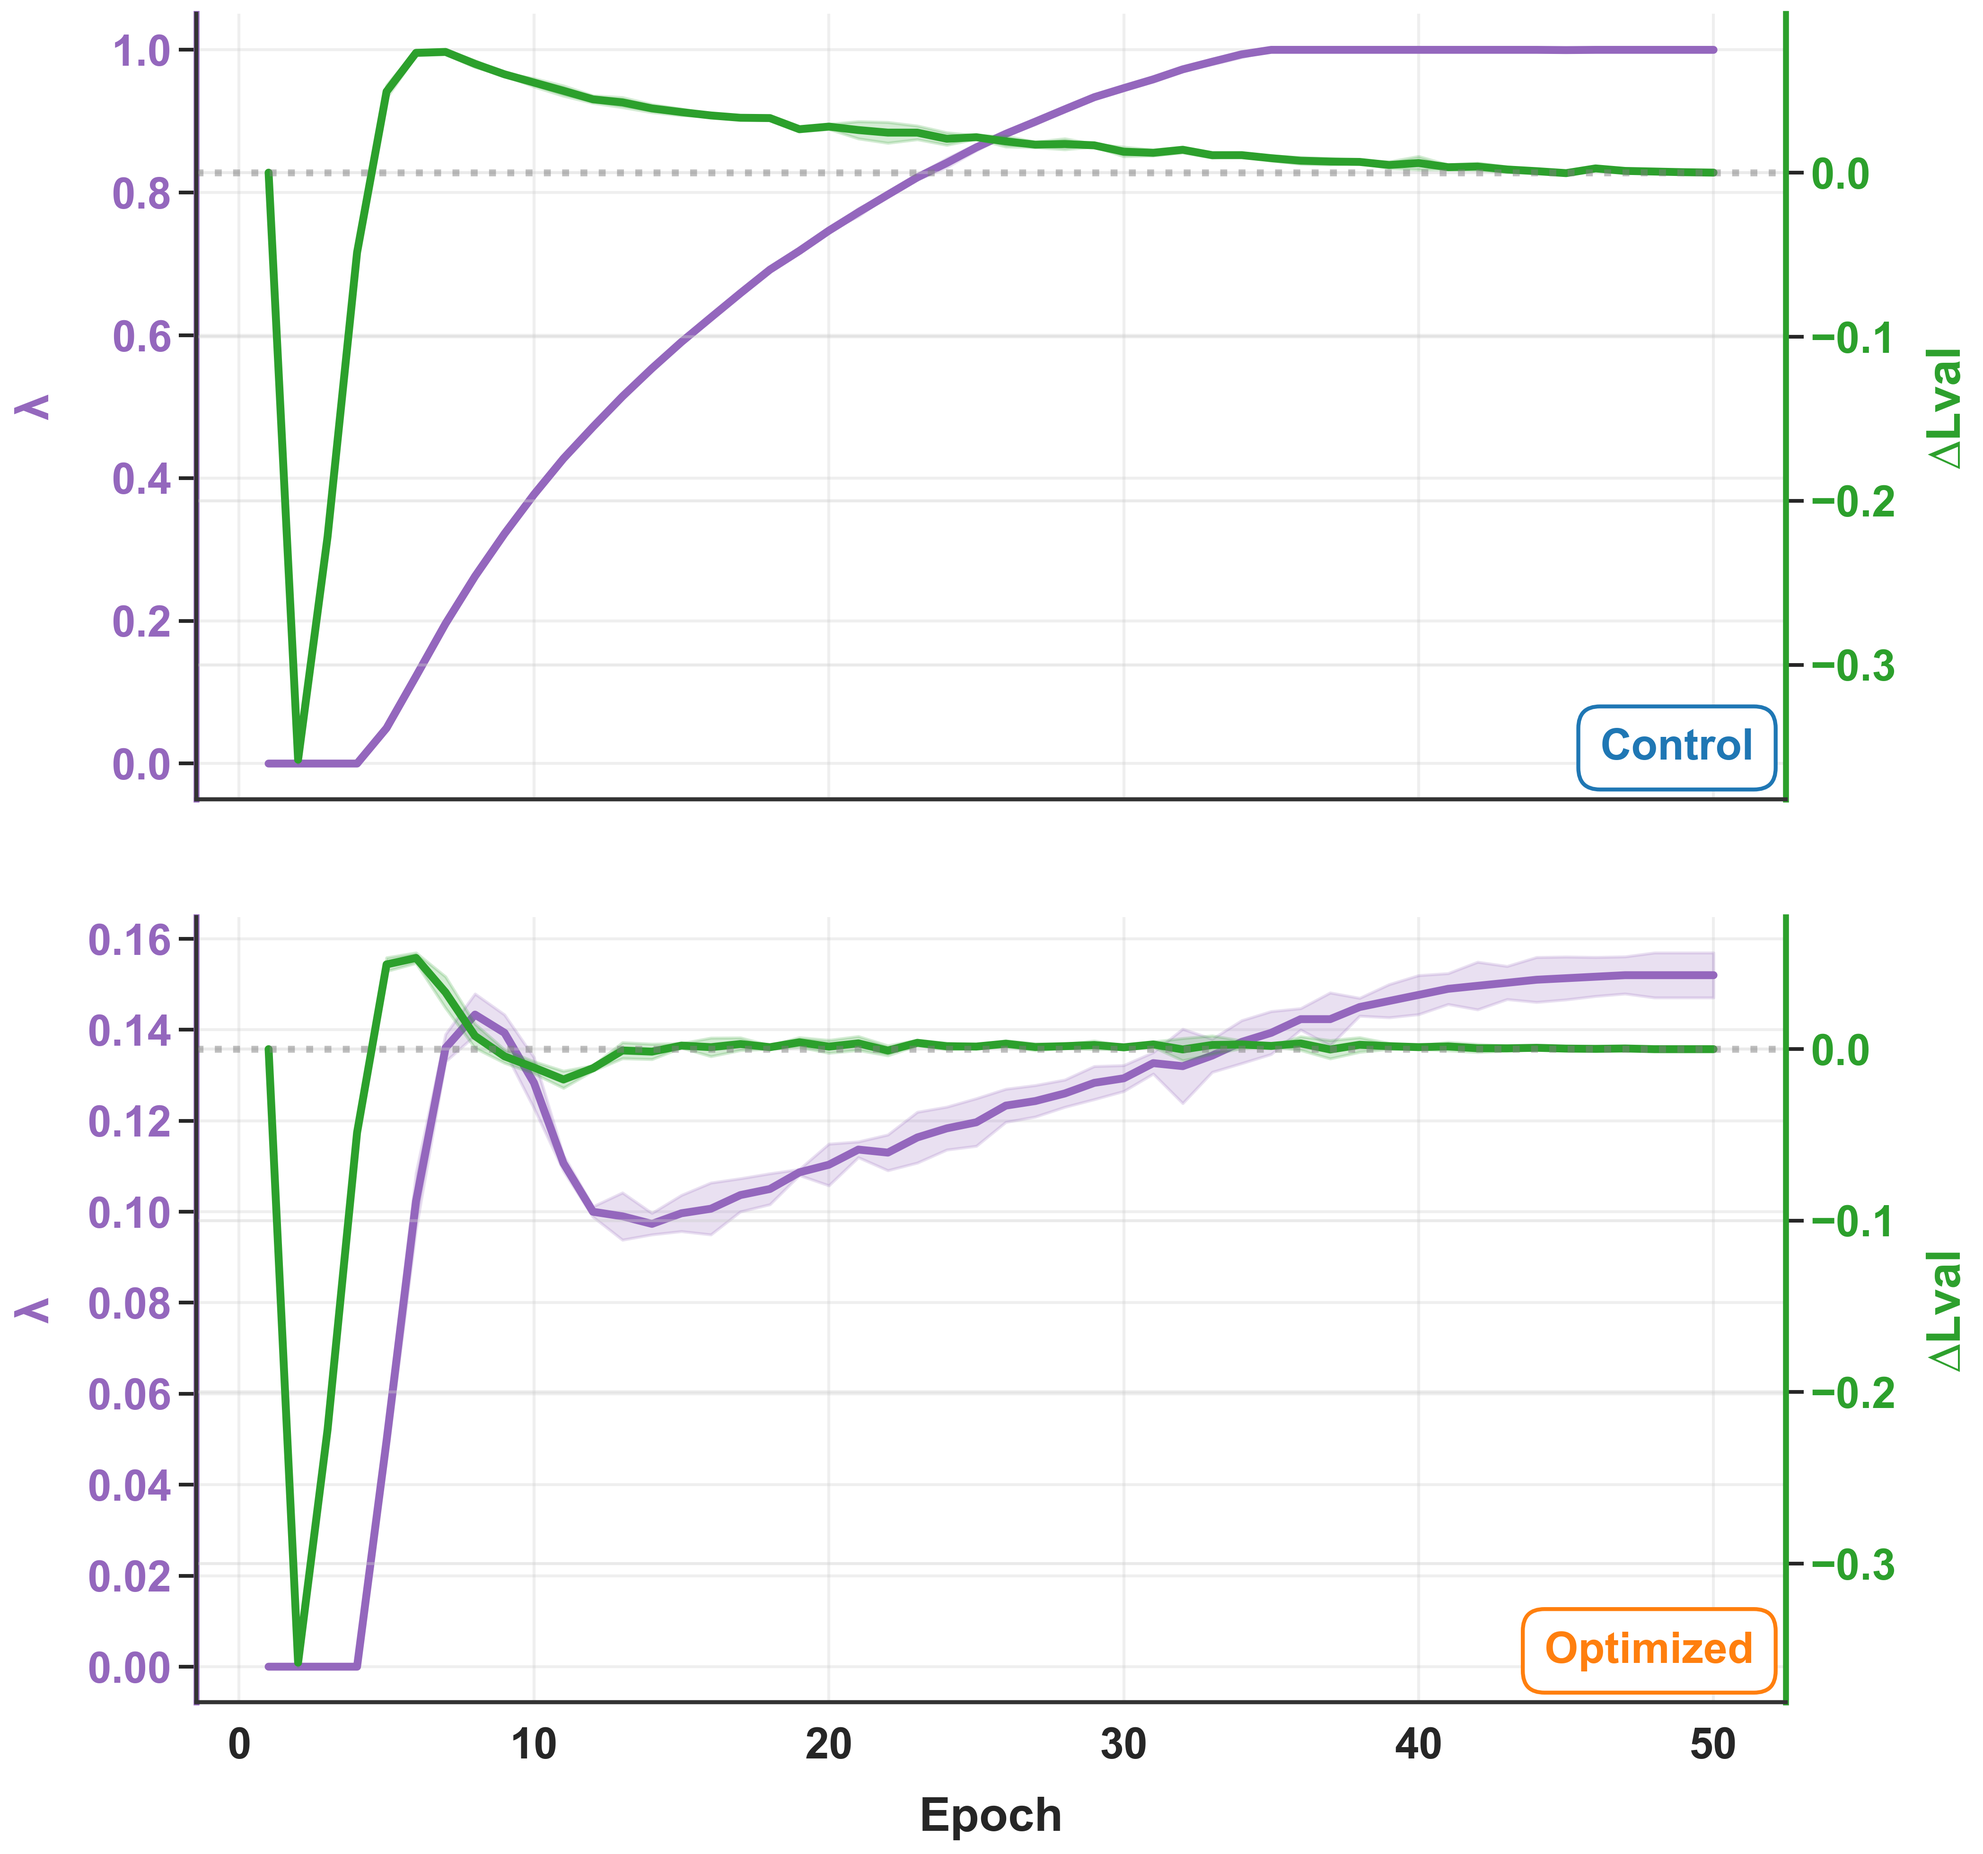
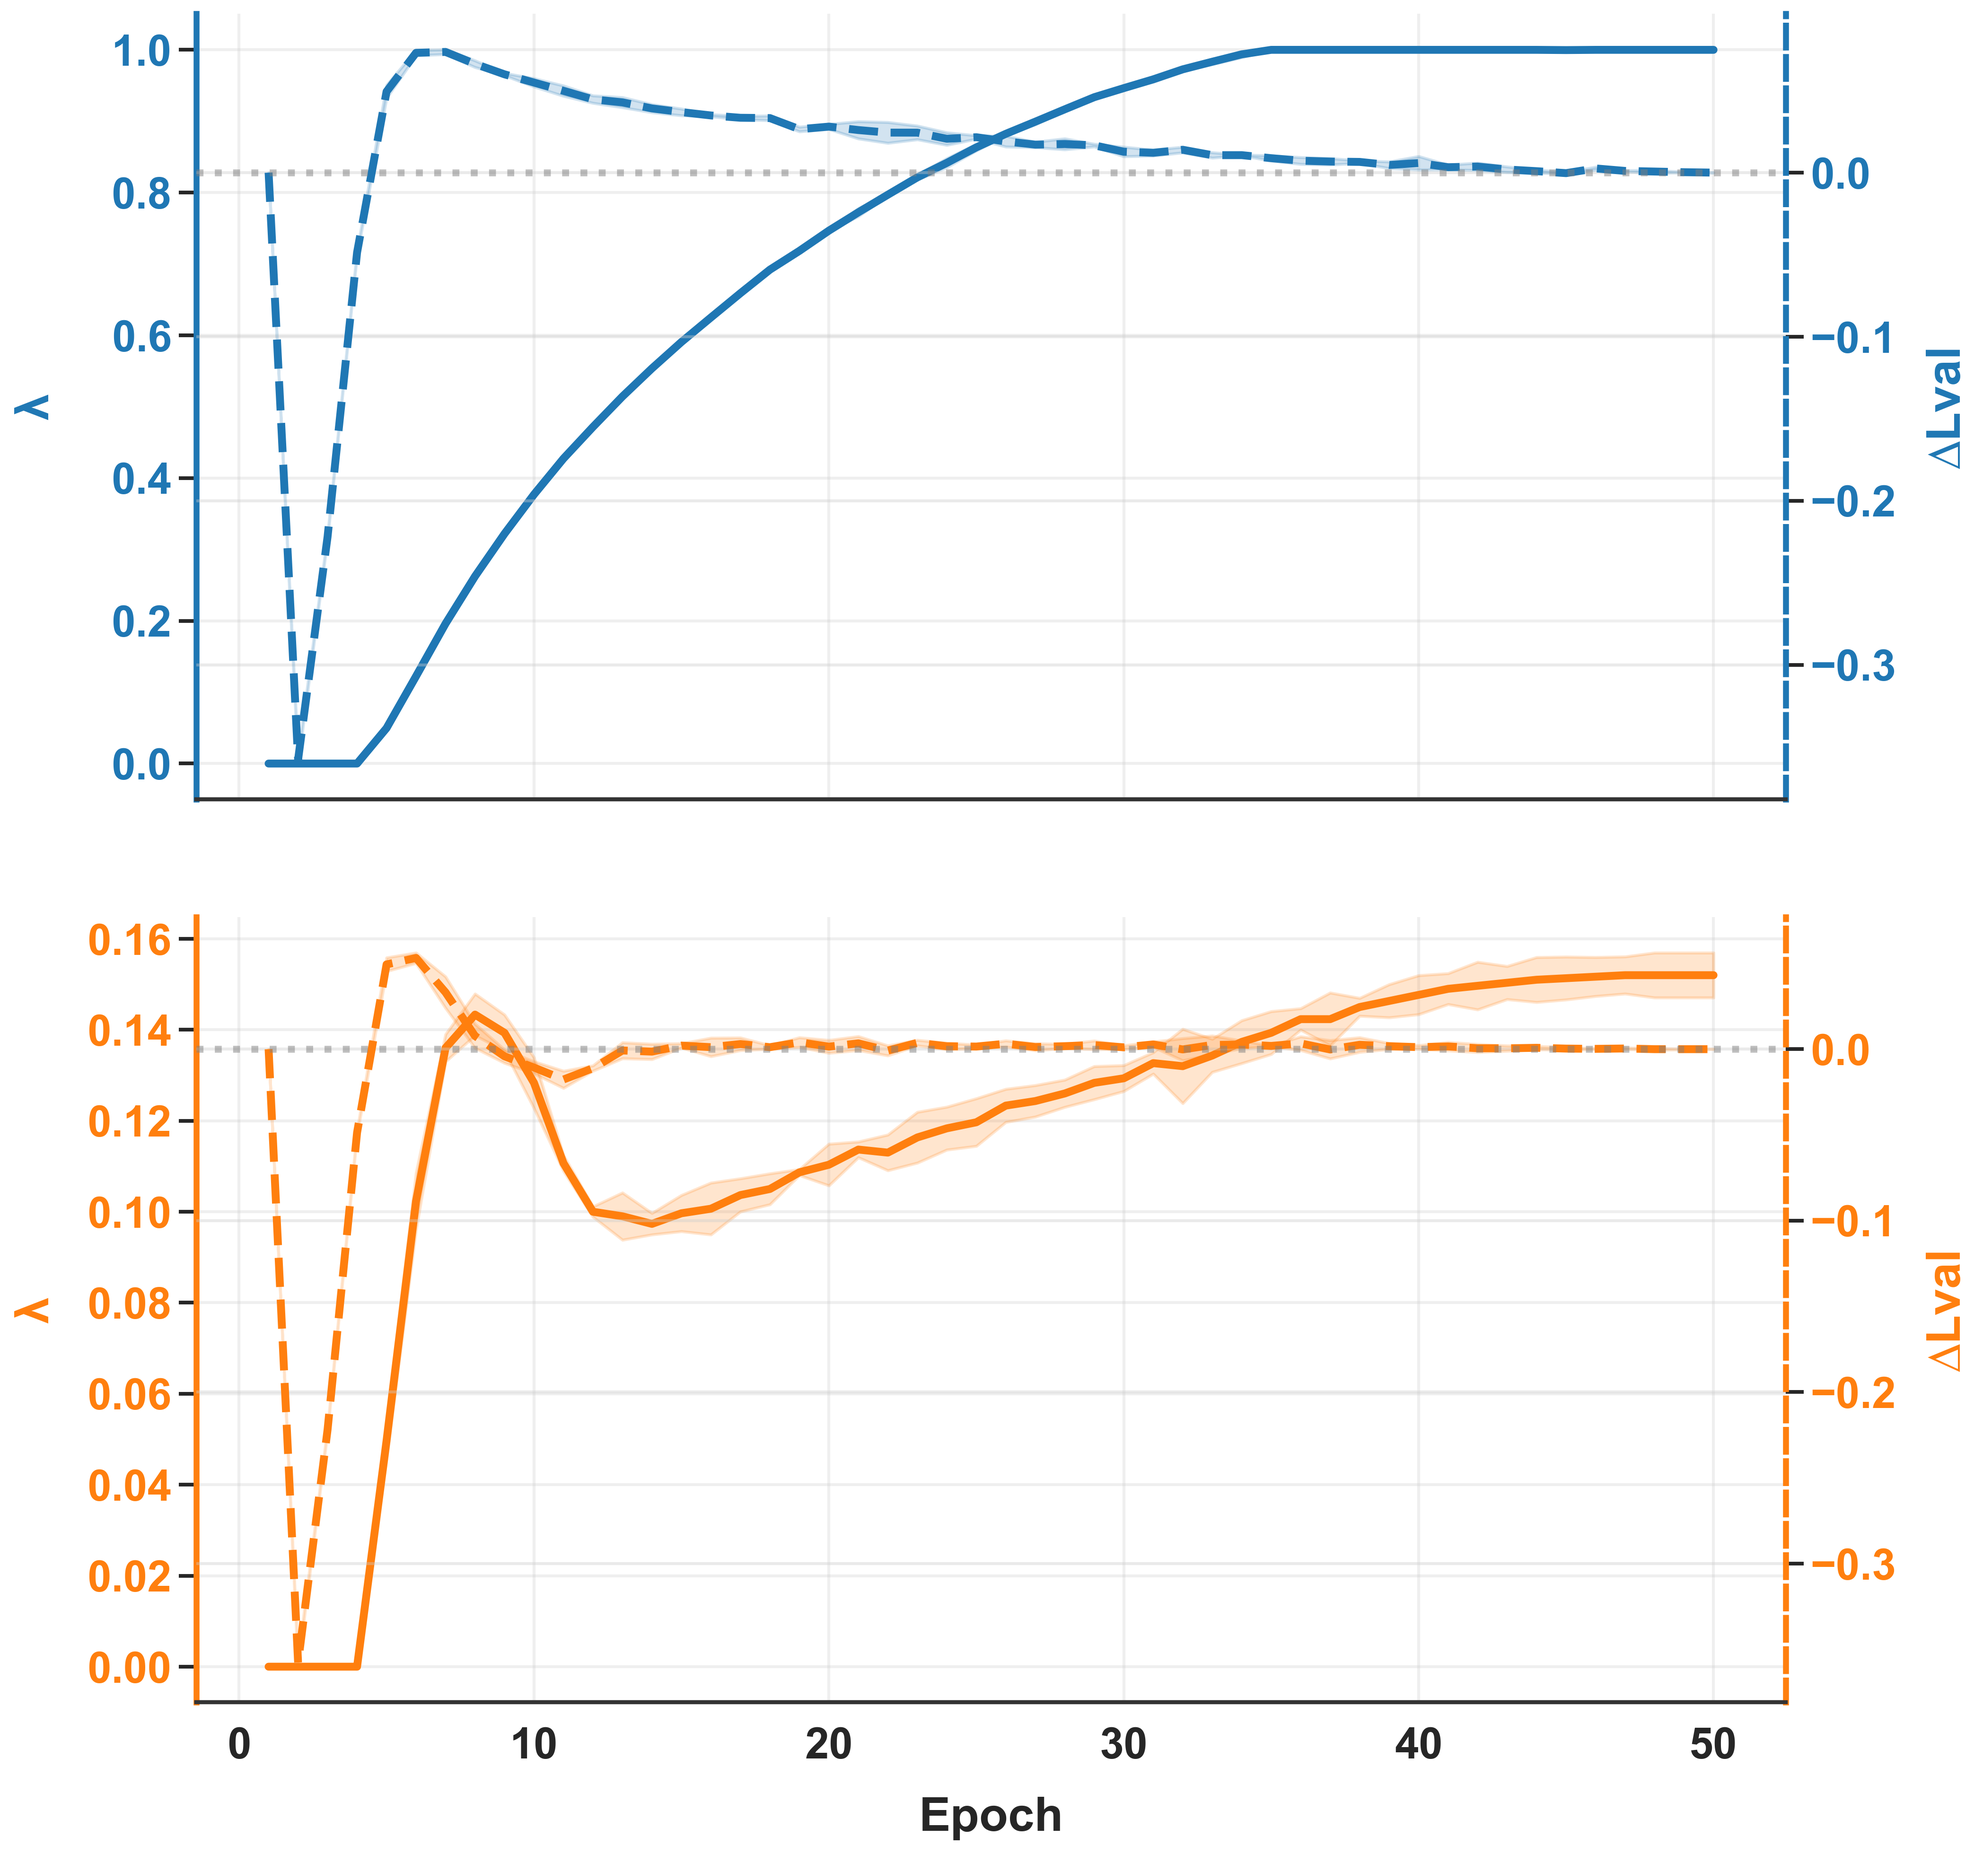
? - plots 2.4

diff --git a/Research/Complexity_Training_Test/plot.py b/Research/Complexity_Training_Test/plot.py
@@ -998,50 +998,36 @@ def plot_adaptive_mechanism_faceted(master_df):
     fig, axes = plt.subplots(n_sources, 1, figsize=(14, 7 * n_sources), sharex=True)
     if n_sources == 1: axes = [axes]
     
-    # Define colors for metrics - Use different colors from Control/Optimized palette
-    # Purple and green to avoid confusion with blue/orange used for sources
-    color_weight = '#9467bd'  # Purple for λ
-    color_slope = '#2ca02c'   # Green for ∆Lval
-    
-    # Map sources to Control/Optimized colors for x-axis
+    # Map sources to Control/Optimized colors
     source_colors = {'Control': BLUE, 'Optimized': ORANGE}
     
     for i, source in enumerate(sources):
         ax1 = axes[i]
         subset = master_df[master_df['Source'] == source]
         
-        # Get source color for x-axis
-        x_axis_color = source_colors.get(source, 'black')
+        # Determine color for this graph based on source
+        graph_color = source_colors.get(source, 'black')
         
-        # Group by Epoch to get mean (if multiple runs)
-        # subset_mean = subset.groupby('Epoch')[required].mean()
-        
-        # Plot λ (Left Axis)
+        # Plot λ (Left Axis) - SOLID
         grouped_weight = subset.groupby('Epoch')['λ']
         mean_weight = grouped_weight.mean()
         sem_weight = grouped_weight.sem()
         ci_weight = sem_weight * 1.96
         
         ax1.plot(mean_weight.index, mean_weight.values, 
-                 color=color_weight, linewidth=4.0, label='λ')
+                 color=graph_color, linewidth=4.0, linestyle='-', label='λ')
         ax1.fill_between(mean_weight.index, mean_weight - ci_weight, mean_weight + ci_weight, 
-                         color=color_weight, alpha=0.2)
+                         color=graph_color, alpha=0.2)
         
         # Only show x-axis label on the last subplot
         if i == n_sources - 1:
             ax1.set_xlabel('Epoch', fontsize=24, fontweight='bold', labelpad=15)
-        ax1.set_ylabel('λ', color=color_weight, fontsize=24, fontweight='bold', labelpad=15)
-        ax1.tick_params(axis='y', labelcolor=color_weight, labelsize=22)
+        ax1.set_ylabel('λ', color=graph_color, fontsize=24, fontweight='bold', labelpad=15)
+        ax1.tick_params(axis='y', labelcolor=graph_color, labelsize=22)
         ax1.tick_params(axis='x', labelsize=22)
         ax1.grid(True, alpha=0.3)
         
-        # Add source label inside the plot
-        ax1.text(0.98, 0.04, source, transform=ax1.transAxes, 
-                fontsize=22, fontweight='bold', va='bottom', ha='right',
-                color=x_axis_color, bbox=dict(boxstyle='round,pad=0.5', 
-                facecolor='white', edgecolor=x_axis_color, linewidth=2))
-        
-        # Plot Slope (Right Axis)
+        # Plot Slope (Right Axis) - DASHED
         ax2 = ax1.twinx()
         
         grouped_slope = subset.groupby('Epoch')['∆Lval']
@@ -1049,23 +1035,31 @@ def plot_adaptive_mechanism_faceted(master_df):
         sem_slope = grouped_slope.sem()
         ci_slope = sem_slope * 1.96
         
-        # Make line solid instead of dashed
+        # Dashed line
         ax2.plot(mean_slope.index, mean_slope.values, 
-                 color=color_slope, linewidth=4.0, linestyle='-', alpha=1.0, label='∆Lval')
+                 color=graph_color, linewidth=4.0, linestyle='--', alpha=1.0, label='∆Lval')
         ax2.fill_between(mean_slope.index, mean_slope - ci_slope, mean_slope + ci_slope,
-                         color=color_slope, alpha=0.2)
+                         color=graph_color, alpha=0.2)
                  
-        ax2.set_ylabel('∆Lval', color=color_slope, fontsize=24, fontweight='bold', labelpad=15)
-        ax2.tick_params(axis='y', labelcolor=color_slope, labelsize=22)
+        ax2.set_ylabel('∆Lval', color=graph_color, fontsize=24, fontweight='bold', labelpad=15)
+        ax2.tick_params(axis='y', labelcolor=graph_color, labelsize=22)
         
         # Add zero line for slope
         ax2.axhline(0, color='gray', linestyle=':', alpha=0.5)
         
         # Spines
-        ax1.spines['left'].set_color(color_weight)
+        ax1.spines['left'].set_color(graph_color)
         ax1.spines['left'].set_linewidth(3)
-        ax2.spines['right'].set_color(color_slope)
+        ax1.spines['left'].set_linestyle('-')
+        # Hide the right spine of ax1 to prevent black line overlap on the right
+        ax1.spines['right'].set_visible(False)
+
+        ax2.spines['right'].set_color(graph_color)
         ax2.spines['right'].set_linewidth(3)
+        ax2.spines['right'].set_linestyle('--')
+        # Hide the left spine of ax2 to prevent black line overlap on the left
+        ax2.spines['left'].set_visible(False)
+
         ax1.spines['top'].set_visible(False)
         ax2.spines['top'].set_visible(False)
 
@@ -1518,19 +1512,22 @@ def plot_complexity_metrics_faceted(master_df):
     g = sns.FacetGrid(df_melted, row="Metric", hue="Source", height=5.6, aspect=2.5, sharey=False, palette=SOURCE_PALETTE)
     g.map(sns.lineplot, "Epoch", "Value", errorbar=('se', 1.96), linewidth=4.0)
     # No legend
-    g.set_titles("{row_name}", size=26, fontweight='bold')
-    g.set_axis_labels("Epoch", "Value", fontsize=24, fontweight='bold')
+    # Set titles temporarily to extract row names
+    g.set_titles("{row_name}")
+    g.set_xlabels("Epoch", fontsize=24, fontweight='bold')
     
-    # Add consistent labelpad
+    # Move title to Y-axis label
     for ax in g.axes.flat:
+        title = ax.get_title()
+        ax.set_ylabel(title, fontsize=24, fontweight='bold')
+        ax.set_title("")
+        
         ax.xaxis.labelpad = 15
         ax.yaxis.labelpad = 15
+        ax.tick_params(labelsize=22)
     
     # Align y-axis labels
     g.fig.align_ylabels()
-    
-    for ax in g.axes.flat:
-        ax.tick_params(labelsize=22)
 
     g.fig.subplots_adjust(top=0.95)
     
